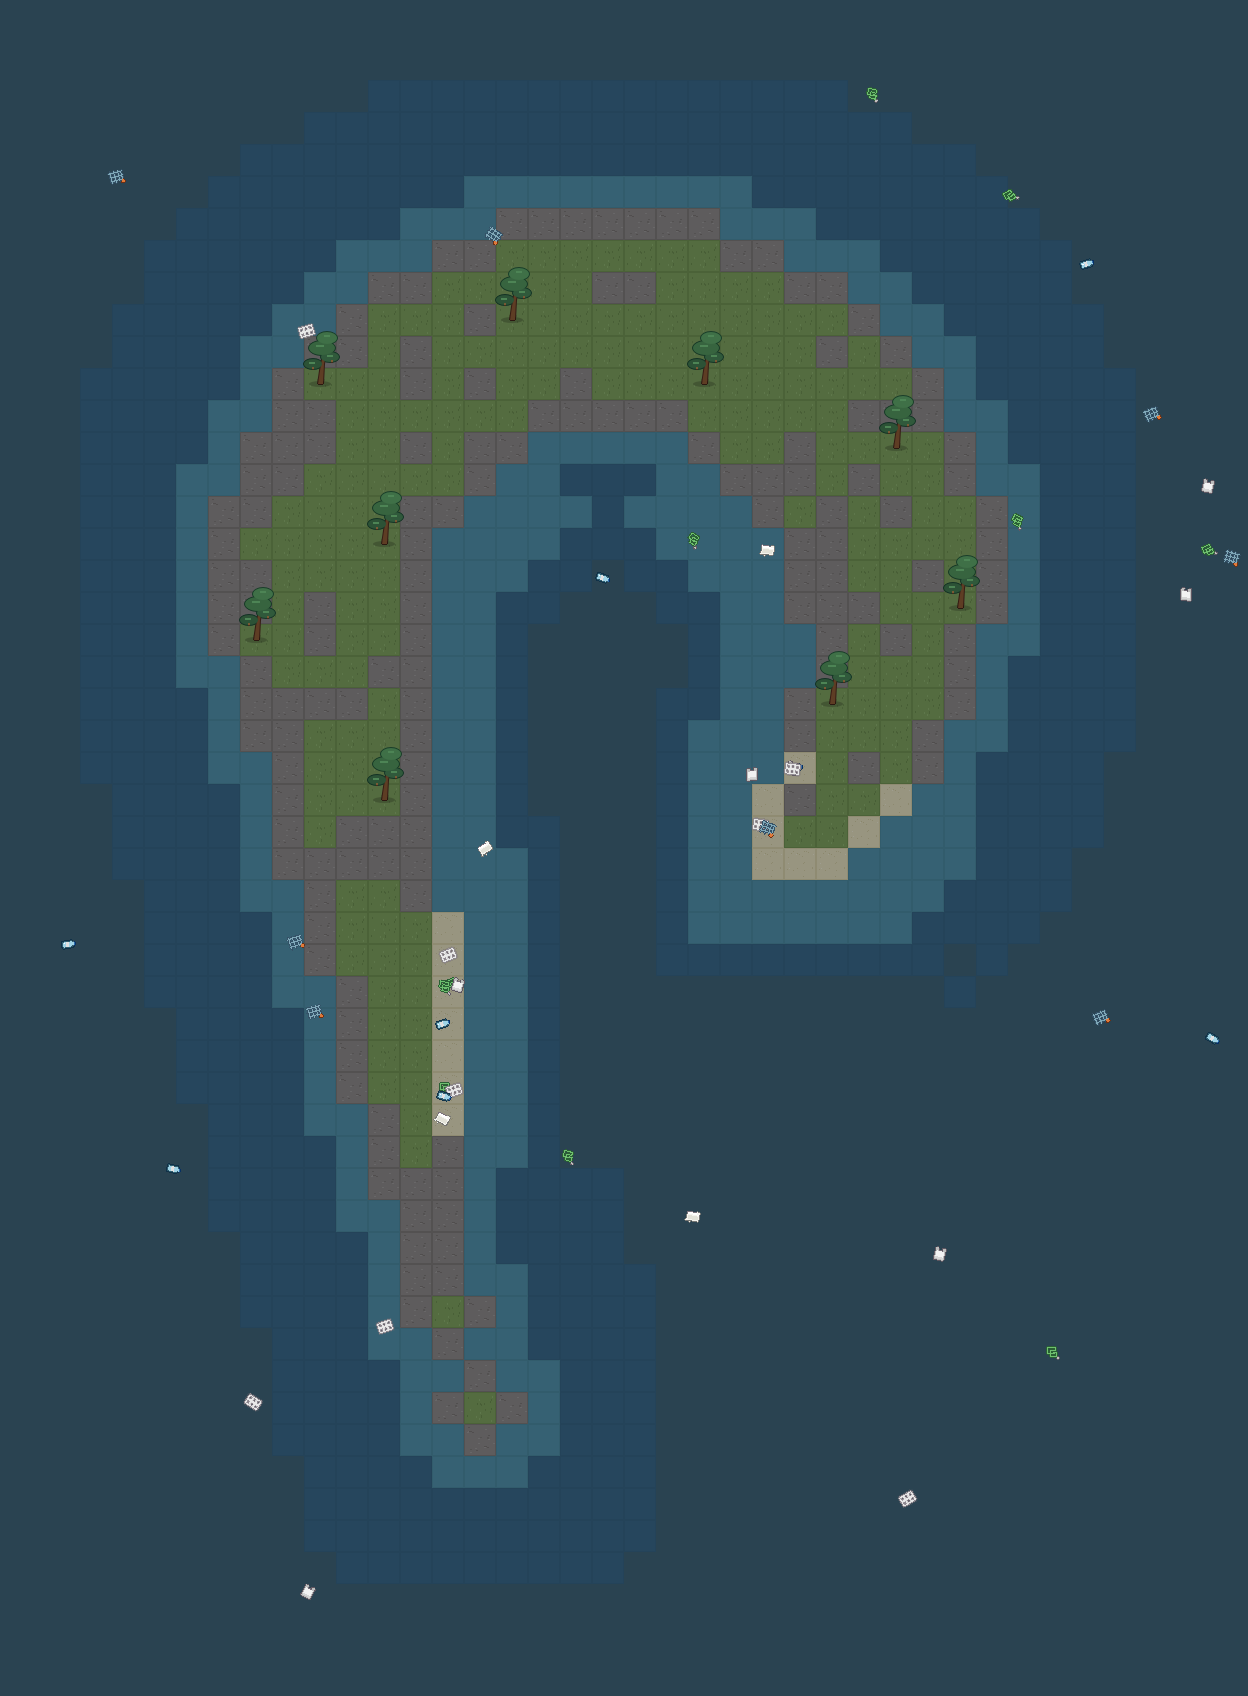
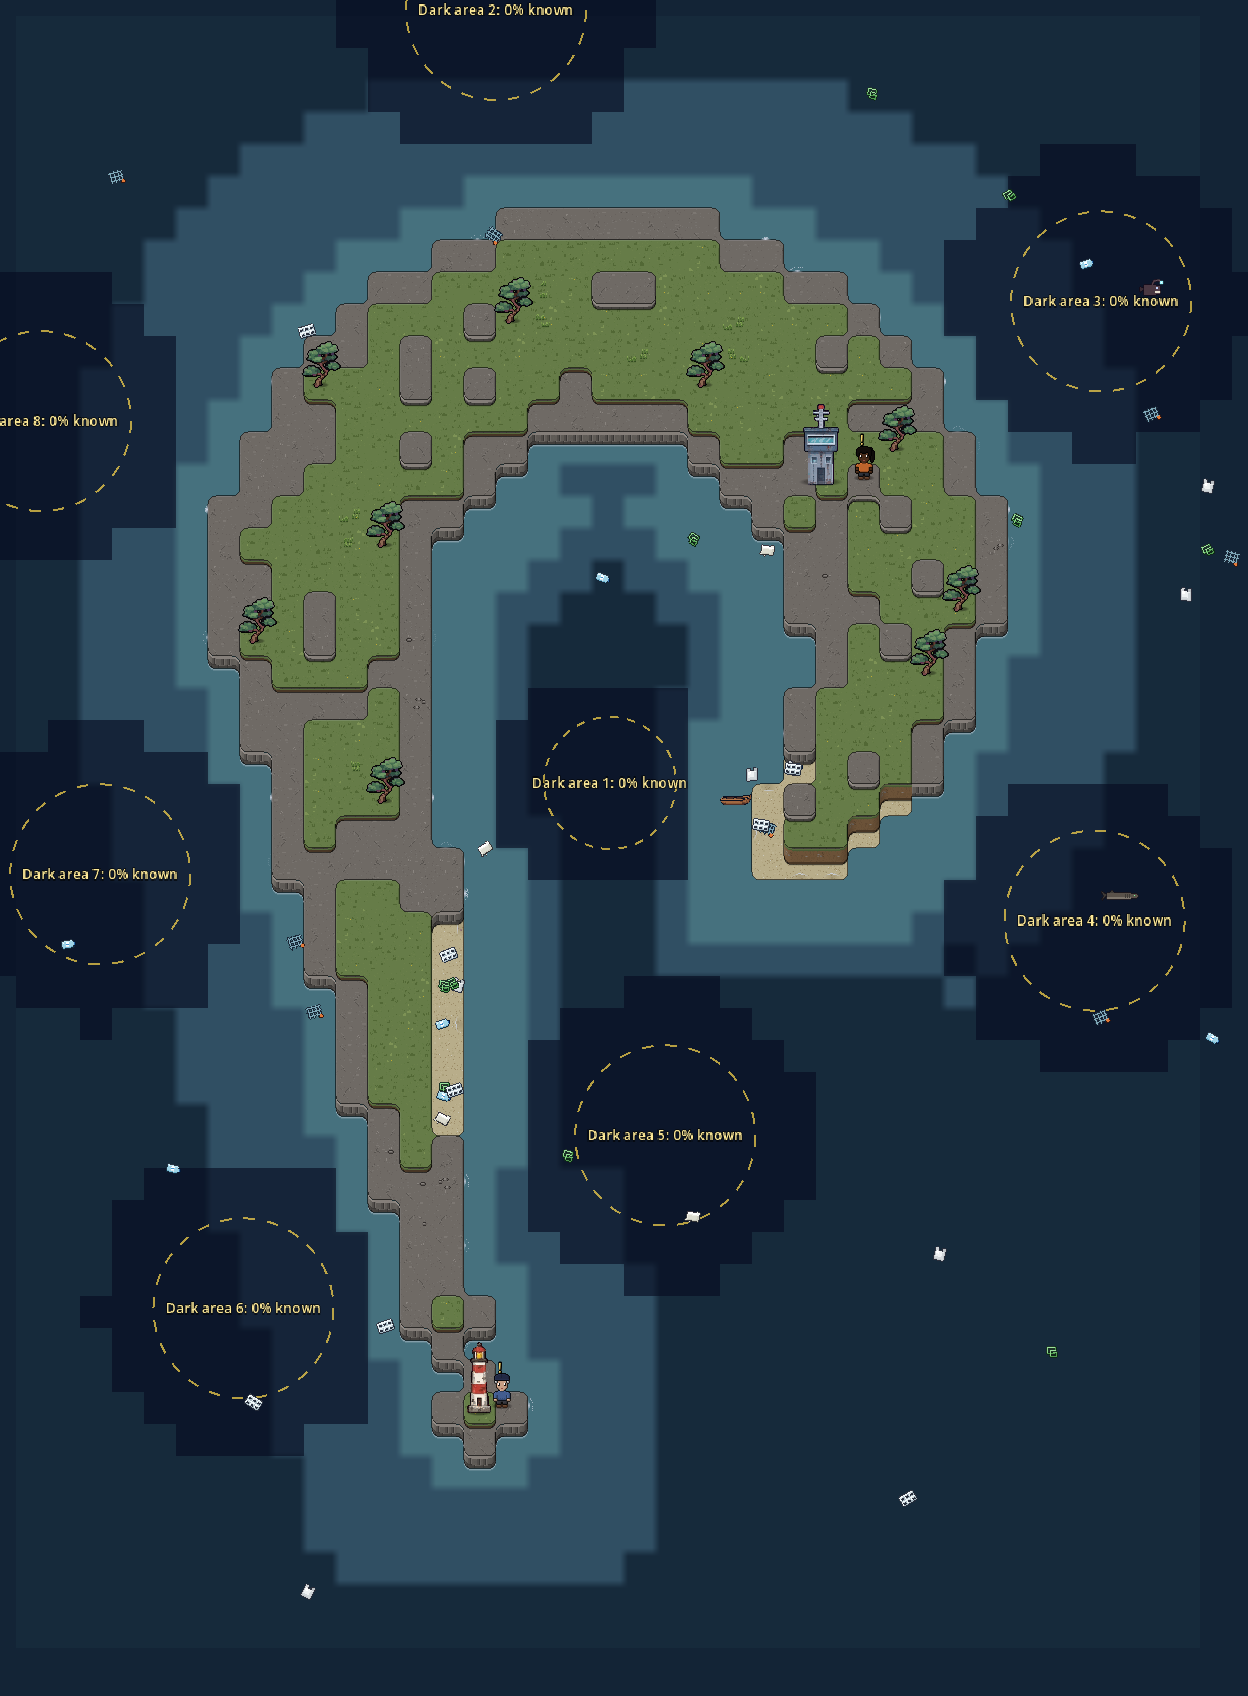
Start pictures: the world itself photographed (ground art, height edges, people, starting animals, first-visit litter), the ranger at the landing, the day they first got there; home page picture redone (Maya moved)

diff --git a/CLAUDE.md b/CLAUDE.md
@@ -589,9 +589,10 @@ question ("observatory") is answered by opening it. Play goes on.
 The Observatory's layout (the owner's): fixed at the top, the six islands with the white
 routes joining them (Panorama) and each one's health under it (tap one: its start picture, the same for everyone:
 assets/ui/islands/<id>_start.png, rendered by tools/make_start_pictures.gd from a new game's
-world (the island as it was made, muted, its start litter, its few starting animals;
-RegionData.start_frame), with the ranger's avatar drawn at true size where their first day on
-that island ended (Journal.start_spot, saved "start_spots"); + / - and arrow buttons zoom and
+world with every island found, photographed itself (ground art, rounded and height edges, waves,
+its start litter, its few starting animals and its people; RegionData.start_frame), with the
+ranger's avatar drawn at true size where they land (the owner) and the day they first got there
+in the title (Journal.arrived_day, saved "arrived_days", noted by Explore); + / - and arrow buttons zoom and
 pan); below, scrolling, the whole ocean's health and sections that drop down one at a time (open_section): How the
 islands help each other (Panorama + links(): clean water, fish, terns, travelling dolphins /
 whales / turtles, seeds, seagrass grazing, mapping, cargo, each fix, fibres, rescues), and in
